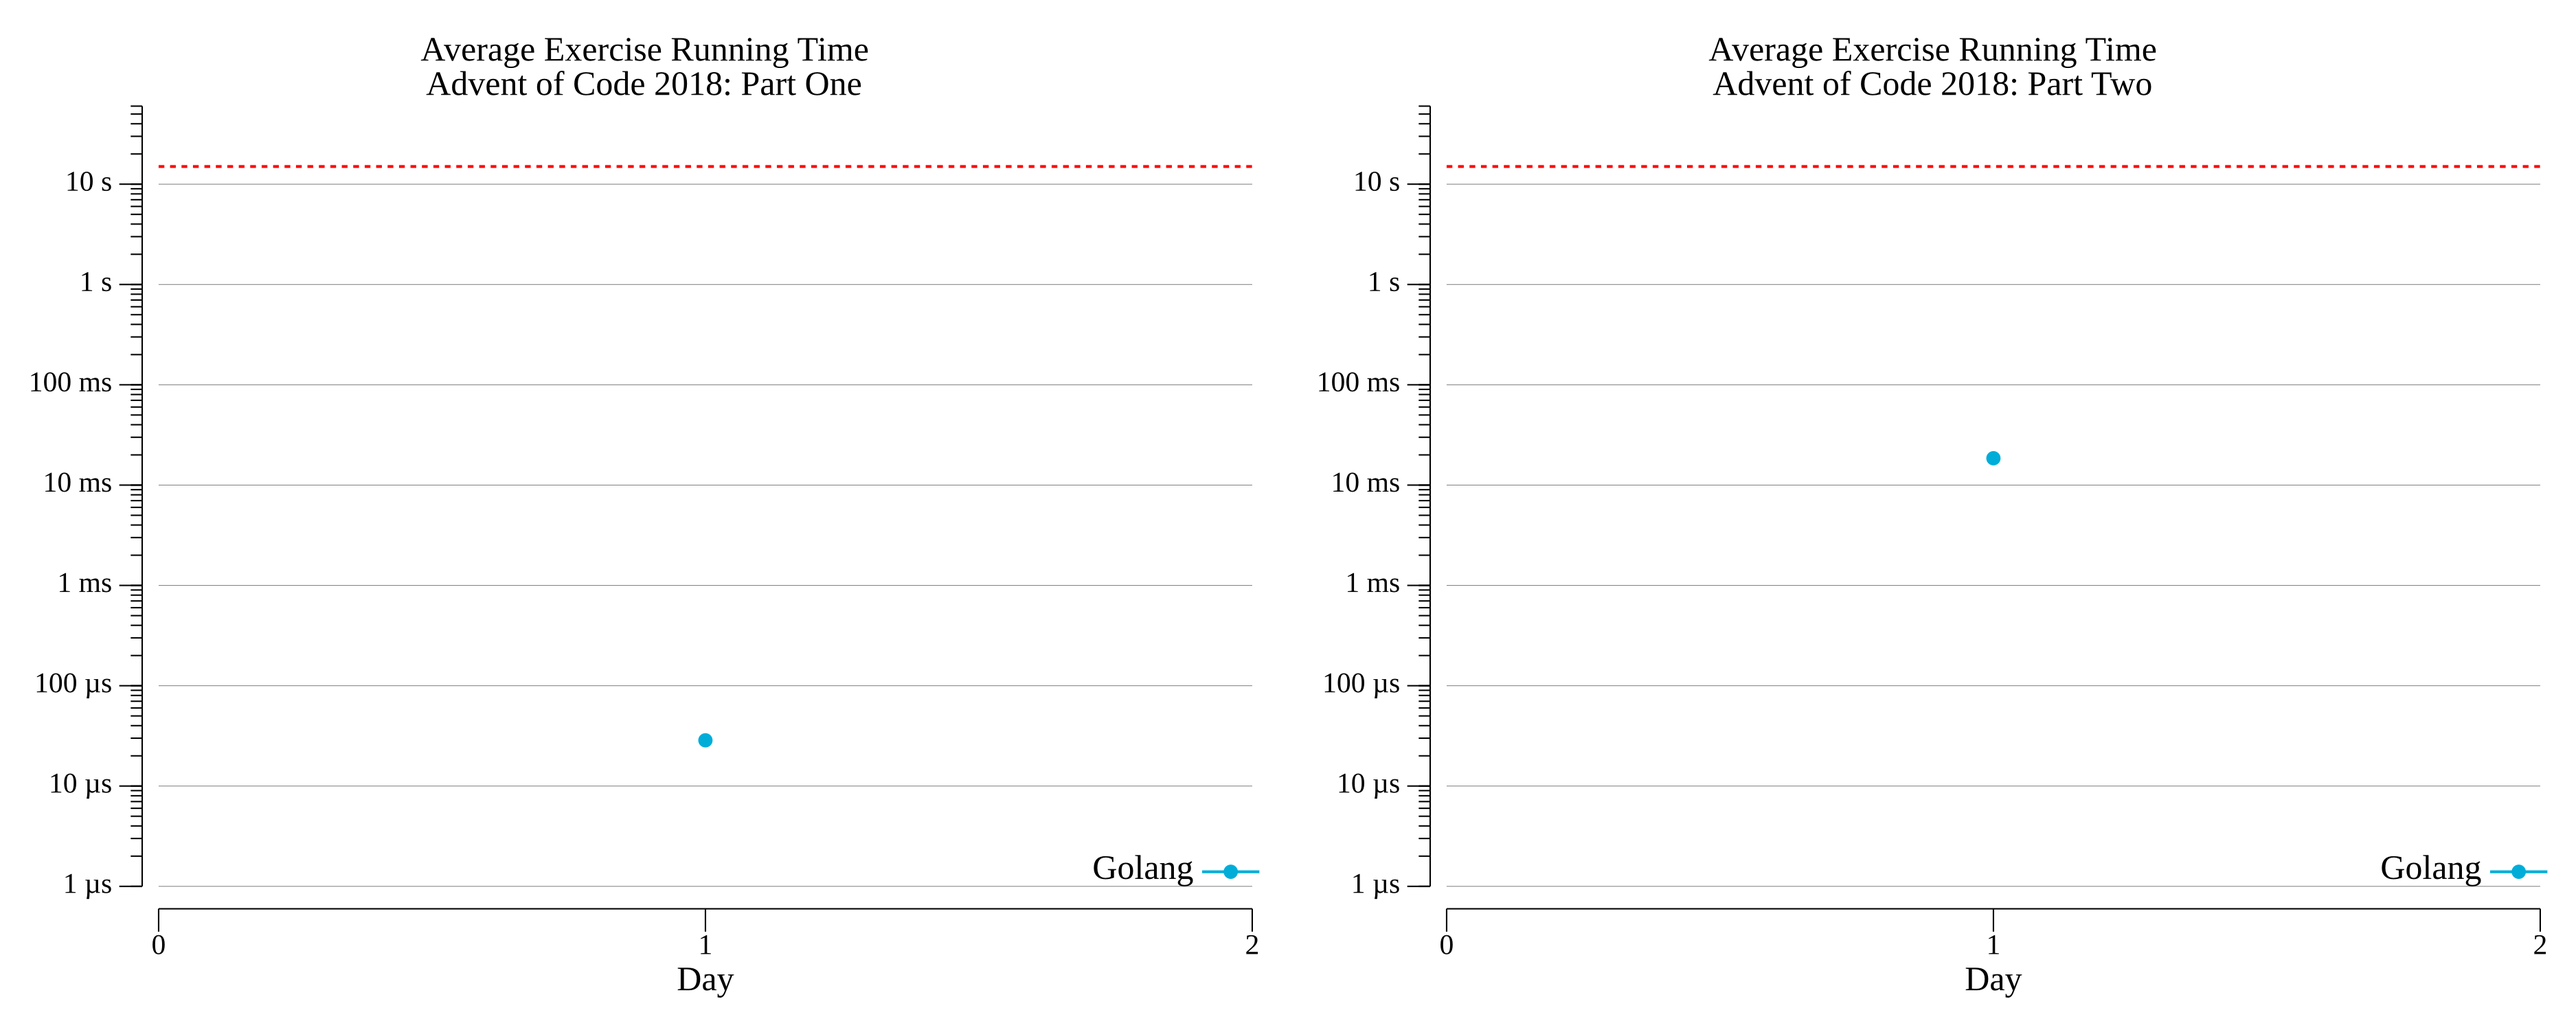
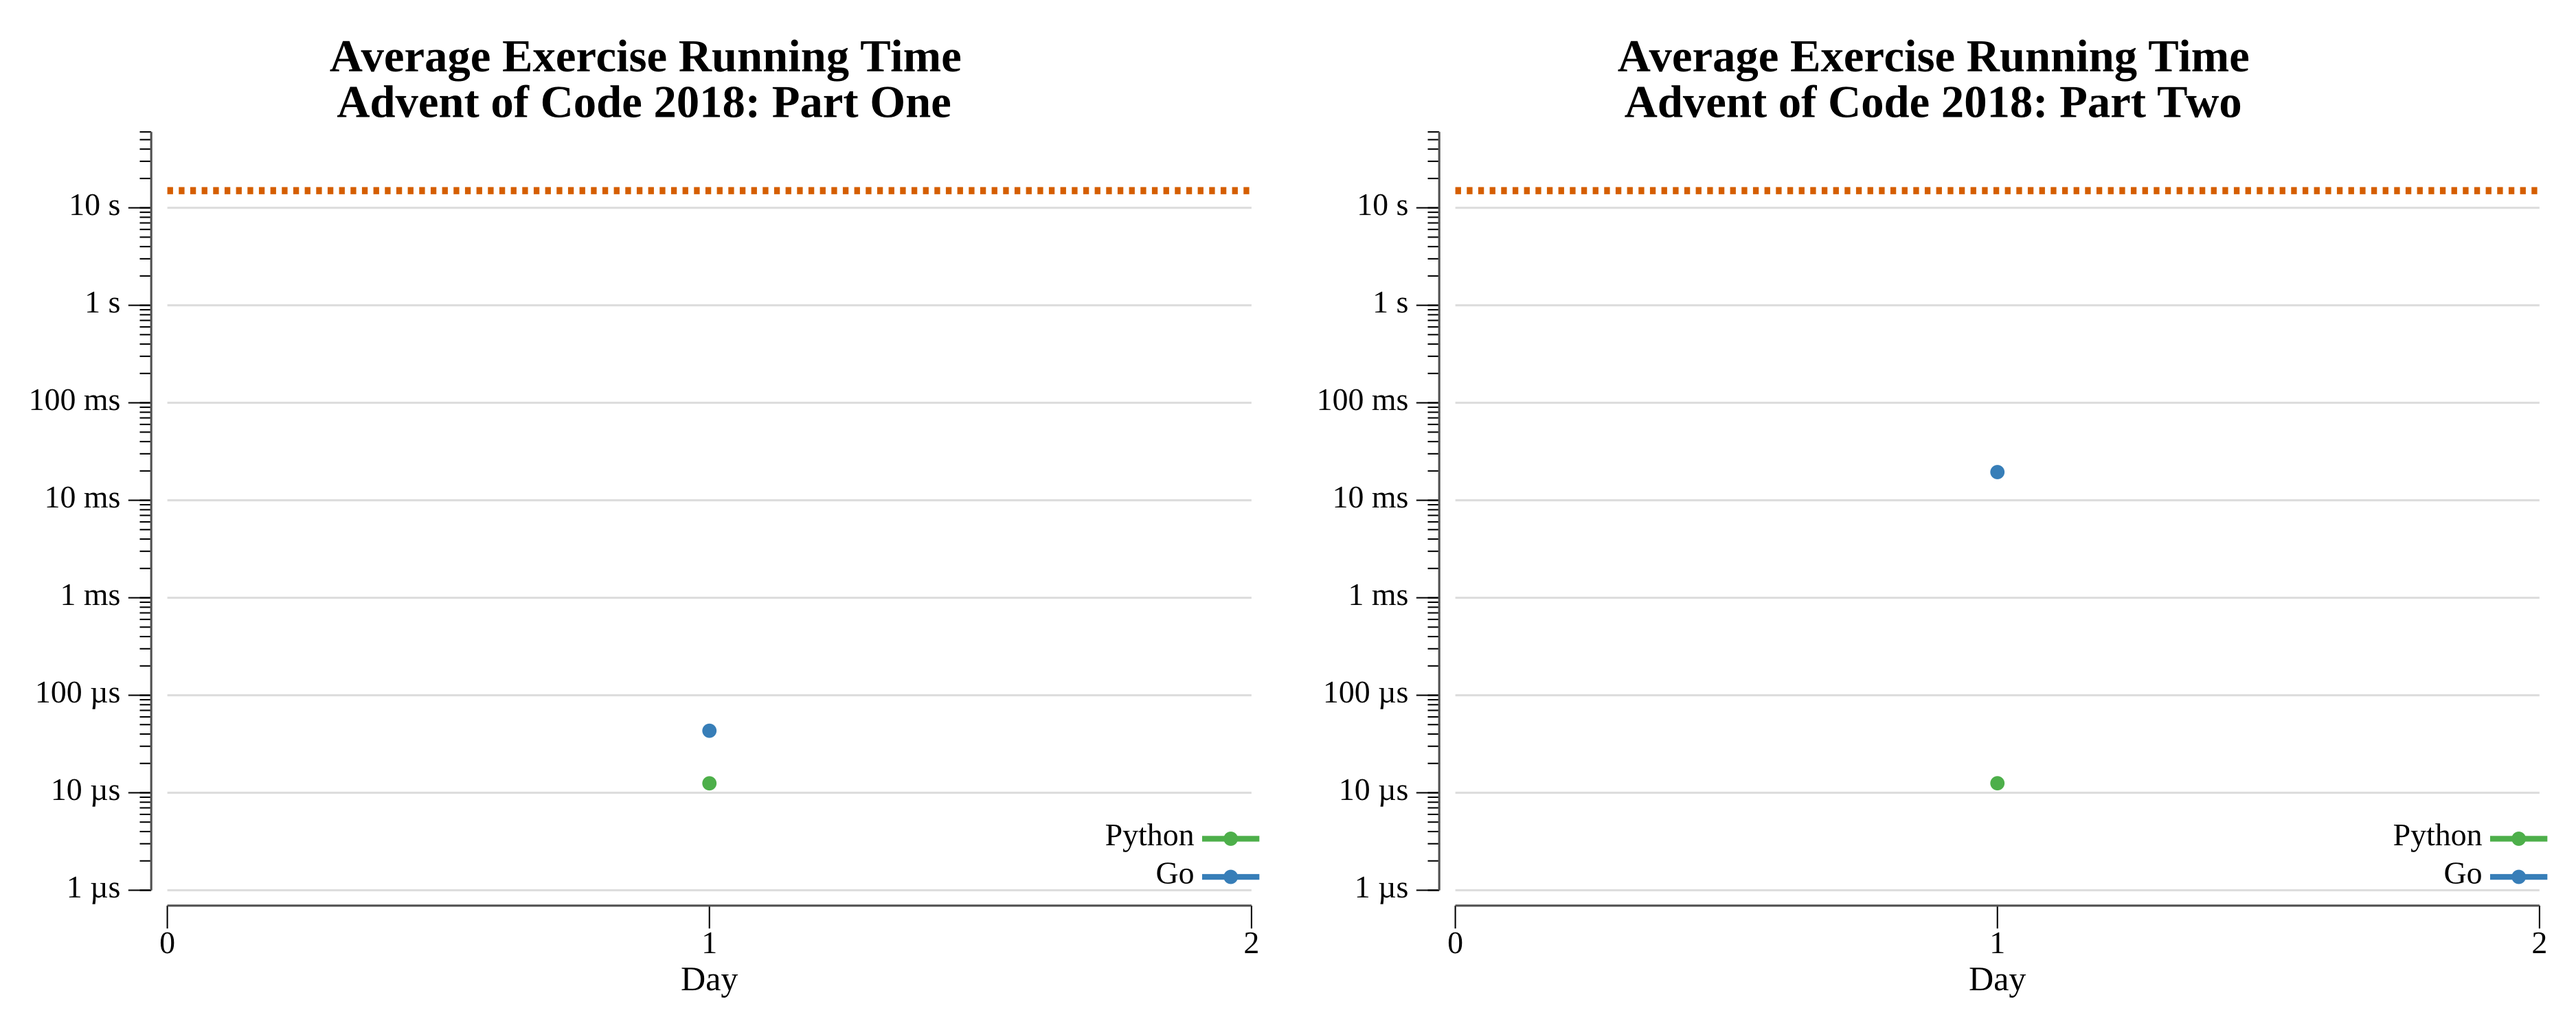
fix 2018 day 1

diff --git a/exercises/2018/01-chronalCalibration/go/vis.go b/exercises/2018/01-chronalCalibration/go/vis.go
@@ -1,0 +1,169 @@
+package exercises
+
+import (
+	"fmt"
+	"os"
+	"path/filepath"
+	"strings"
+)
+
+// Vis draws the space of visited frequencies as a coverage histogram along a
+// number line. Starting from 0, the device walks the signed changes over and
+// over; Part One is the frequency after one pass, and Part Two is the first
+// frequency reached twice. Because each pass drifts the frequency by a fixed
+// amount (+416) while the intra-pass path swings across a wide band, the walk
+// gradually fills a range of frequencies — and the puzzle ends the moment the
+// path lands on a frequency it already occupied. The histogram shows how densely
+// each frequency band was visited (why a collision is inevitable), and the one
+// value hit twice is marked with a tall pointer and its two step labels. Roles
+// are carried by marker shape, brightness, and labels — not hue alone — so the
+// chart reads in grayscale.
+func (c Exercise) Vis(instr, outdir string) error {
+	changes, err := parse(instr)
+	if err != nil {
+		return err
+	}
+	if len(changes) == 0 {
+		return fmt.Errorf("no changes to visualize")
+	}
+
+	// Replay until the first repeated frequency, recording the step of first
+	// arrival at each frequency and counting visits per frequency.
+	firstStep := map[int]int{0: 0}
+	visits := map[int]int{0: 1}
+	sum, step := 0, 0
+	repeatFreq, repeatStep, priorStep := 0, -1, -1
+	pass1 := 0
+	for _, n := range changes {
+		pass1 += n
+	}
+	part1 := pass1
+
+	minF, maxF := 0, 0
+outer:
+	for {
+		for _, n := range changes {
+			sum += n
+			step++
+			if sum < minF {
+				minF = sum
+			}
+			if sum > maxF {
+				maxF = sum
+			}
+			if s, ok := firstStep[sum]; ok {
+				repeatFreq, repeatStep, priorStep = sum, step, s
+				visits[sum]++
+				break outer
+			}
+			firstStep[sum] = step
+			visits[sum] = 1
+		}
+	}
+
+	const (
+		W    = 980
+		H    = 340
+		padL = 60
+		padR = 30
+		padT = 78
+		padB = 70
+		bins = 180
+	)
+	pw := W - padL - padR
+	ph := H - padT - padB
+
+	// Bucket visited frequencies into bins across [minF, maxF]; each bin's
+	// height is the number of distinct visited frequencies falling in it.
+	span := maxF - minF
+	if span == 0 {
+		span = 1
+	}
+	binOf := func(f int) int {
+		b := (f - minF) * bins / span
+		if b >= bins {
+			b = bins - 1
+		}
+		if b < 0 {
+			b = 0
+		}
+		return b
+	}
+	counts := make([]int, bins)
+	for f := range firstStep {
+		counts[binOf(f)]++
+	}
+	maxCount := 1
+	for _, ct := range counts {
+		if ct > maxCount {
+			maxCount = ct
+		}
+	}
+	scaleTop := maxCount * 12 / 10 // headroom
+
+	fg := "#e8ecf4"
+	dim := "#c8d0dc"
+	grid := "#2a303a"
+	barCol := "#56B4E9"    // sky blue: coverage
+	repeatCol := "#D55E00" // vermilion: the twice-hit frequency (Part Two)
+	p1Col := "#F0E442"     // yellow: Part One
+
+	xOf := func(f int) float64 { return float64(padL) + float64(f-minF)/float64(span)*float64(pw) }
+	yOf := func(ct int) float64 { return float64(padT) + (1-float64(ct)/float64(scaleTop))*float64(ph) }
+	baseY := padT + ph
+
+	var sb strings.Builder
+	fmt.Fprintf(&sb, `<svg xmlns="http://www.w3.org/2000/svg" width="%d" height="%d" viewBox="0 0 %d %d" font-family="monospace">`, W, H, W, H)
+	fmt.Fprintf(&sb, `<rect width="%d" height="%d" fill="#111418"/>`, W, H)
+	fmt.Fprintf(&sb, `<text x="%d" y="30" fill="%s" font-size="16">Chronal Calibration: visited frequencies (first repeat %d)</text>`, padL, fg, repeatFreq)
+	fmt.Fprintf(&sb, `<text x="%d" y="48" fill="%s" font-size="11">%d distinct frequencies visited before the walk lands on one twice</text>`, padL, dim, len(firstStep))
+
+	// baseline (number line)
+	fmt.Fprintf(&sb, `<line x1="%d" y1="%d" x2="%d" y2="%d" stroke="%s" stroke-width="1.5"/>`, padL, baseY, padL+pw, baseY, grid)
+
+	// coverage bars
+	bw := float64(pw) / float64(bins)
+	for i, ct := range counts {
+		if ct == 0 {
+			continue
+		}
+		x := float64(padL) + float64(i)*bw
+		y := yOf(ct)
+		fmt.Fprintf(&sb, `<rect x="%.2f" y="%.1f" width="%.2f" height="%.1f" fill="%s"/>`, x, y, bw*0.9, float64(baseY)-y, barCol)
+	}
+
+	// axis ticks: min, 0, part1, max
+	tick := func(f int, label, col string) {
+		x := xOf(f)
+		fmt.Fprintf(&sb, `<line x1="%.1f" y1="%d" x2="%.1f" y2="%d" stroke="%s" stroke-width="1"/>`, x, baseY, x, baseY+5, col)
+		fmt.Fprintf(&sb, `<text x="%.1f" y="%d" fill="%s" font-size="10" text-anchor="middle">%s</text>`, x, baseY+18, col, label)
+	}
+	tick(minF, fmt.Sprintf("%d", minF), fg)
+	tick(maxF, fmt.Sprintf("%d", maxF), fg)
+	if 0 > minF && 0 < maxF {
+		tick(0, "0", dim)
+	}
+
+	// Part One marker (end of first pass): downward triangle above the line
+	p1x := xOf(part1)
+	fmt.Fprintf(&sb, `<path d="M%.1f %d l6 -10 l-12 0 z" fill="%s"/>`, p1x, baseY-2, p1Col)
+	fmt.Fprintf(&sb, `<text x="%.1f" y="%d" fill="%s" font-size="10" text-anchor="middle">P1 %d</text>`, p1x, baseY-16, p1Col, part1)
+
+	// The twice-hit frequency: a tall vermilion pointer from the top down to the
+	// number line, with a diamond head — the single value the whole puzzle turns on.
+	rx := xOf(repeatFreq)
+	fmt.Fprintf(&sb, `<line x1="%.1f" y1="%d" x2="%.1f" y2="%d" stroke="%s" stroke-width="2" stroke-dasharray="3 3"/>`, rx, padT, rx, baseY, repeatCol)
+	fmt.Fprintf(&sb, `<path d="M%.1f %d l7 10 l-7 10 l-7 -10 z" fill="%s"/>`, rx, padT+2, repeatCol)
+	fmt.Fprintf(&sb, `<text x="%.1f" y="%d" fill="%s" font-size="12" font-weight="bold" text-anchor="middle">%d</text>`, rx, padT-4, repeatCol, repeatFreq)
+	fmt.Fprintf(&sb, `<text x="%.1f" y="%d" fill="%s" font-size="10" text-anchor="middle">hit twice: step %d, then step %d</text>`, rx, baseY+36, repeatCol, priorStep, repeatStep)
+
+	// legend
+	ly := H - 12
+	lx := padL
+	fmt.Fprintf(&sb, `<rect x="%d" y="%d" width="14" height="9" fill="%s"/><text x="%d" y="%d" fill="%s" font-size="10">visited frequencies (coverage)</text>`, lx, ly-8, barCol, lx+20, ly, fg)
+	fmt.Fprintf(&sb, `<path d="M%d %d l5 -9 l-10 0 z" fill="%s"/><text x="%d" y="%d" fill="%s" font-size="10">Part 1 (%d)</text>`, lx+280, ly, p1Col, lx+292, ly, fg, part1)
+	fmt.Fprintf(&sb, `<path d="M%d %d l5 6 l-5 6 l-5 -6 z" fill="%s"/><text x="%d" y="%d" fill="%s" font-size="10">Part 2 repeat (%d)</text>`, lx+430, ly-6, repeatCol, lx+442, ly, fg, repeatFreq)
+
+	sb.WriteString(`</svg>`)
+	return os.WriteFile(filepath.Join(outdir, "chronal-calibration.svg"), []byte(sb.String()), 0o600)
+}

diff --git a/exercises/2018/01-chronalCalibration/go/exercise.go b/exercises/2018/01-chronalCalibration/go/exercise.go
@@ -13,17 +13,35 @@ type Exercise struct {
 	common.BaseExercise
 }
 
-// One returns the answer to the first part of the exercise.
-// answer:
-func (c Exercise) One(instr string) (any, error) {
-	sum := 0
+// parse turns the input into a slice of signed frequency changes, tolerating
+// blank lines and any surrounding whitespace (the elf may deliver input with or
+// without a trailing newline).
+func parse(instr string) ([]int, error) {
+	fields := strings.Fields(instr)
+	changes := make([]int, 0, len(fields))
 
-	for _, f := range strings.Split(instr, "\n") {
+	for _, f := range fields {
 		n, err := strconv.Atoi(f)
 		if err != nil {
 			return nil, fmt.Errorf("parsing input: %w", err)
 		}
 
+		changes = append(changes, n)
+	}
+
+	return changes, nil
+}
+
+// One returns the answer to the first part of the exercise.
+// answer: 416
+func (c Exercise) One(instr string) (any, error) {
+	changes, err := parse(instr)
+	if err != nil {
+		return nil, err
+	}
+
+	sum := 0
+	for _, n := range changes {
 		sum += n
 	}
 
@@ -31,18 +49,18 @@ func (c Exercise) One(instr string) (any, error) {
 }
 
 // Two returns the answer to the second part of the exercise.
-// answer:
+// answer: 56752
 func (c Exercise) Two(instr string) (any, error) {
+	changes, err := parse(instr)
+	if err != nil {
+		return nil, err
+	}
+
 	sum := 0
 	seen := map[int]bool{0: true}
 
 	for {
-		for _, f := range strings.Split(instr, "\n") {
-			n, err := strconv.Atoi(f)
-			if err != nil {
-				return nil, fmt.Errorf("parsing input: %w", err)
-			}
-
+		for _, n := range changes {
 			sum += n
 
 			if seen[sum] {

diff --git a/exercises/2018/01-chronalCalibration/README.md b/exercises/2018/01-chronalCalibration/README.md
@@ -2,23 +2,26 @@
 
 <!-- [Day 1: Chronal Calibration](01-chronalCalibration) -->
 
+## Notes
+
+The device starts at frequency 0 and applies a list of signed changes.
+
+Part One is just the sum of every change. Part Two cycles through the list
+repeatedly, tracking every intermediate frequency in a set, and returns the first
+frequency reached twice. Because the list may need many passes before a repeat
+appears, the seen-set is the key: it turns an otherwise unbounded search into an
+O(reached) lookup, and the loop terminates the moment a duplicate is hit.
+
 ## Go
 
 ```text
-2018-1 Chronal Calibration (Golang)
+────────────────────────────────────────
+─   2018 Day 1: Chronal Calibration    ─
+────────────────────────────────────────
 
-Running...
-
-Test 1.0: pass in 1.6 µs
-Test 1.1: pass in 2.7 µs
-Test 1.2: pass in 2.3 µs
-Test 1.3: pass in 2.1 µs
-Test 2.0: pass in 2.5 µs
-Test 2.1: pass in 3 µs
-Test 2.2: pass in 9.3 µs
-Test 2.3: pass in 4.2 µs
-Part 1: 416 in 21.7 µs
-Part 2: 56752 in 27.0396 ms
+Solving (Go)…
+1.0:  PASS             0.074ms
+2.0:  PASS            22.611ms
 ```
 
 ## Python
@@ -27,6 +30,18 @@ Part 2: 56752 in 27.0396 ms
     < section intentionally left blank >
 ```
 
-## 2018 Run Times
+## Visualization
 
-![2018 exercise run-time graphs](../run-times.png)
+The space of frequencies the walk visits, as a coverage histogram along a number
+line. Each bar counts distinct frequencies visited in that band, so the near-solid
+region shows where the walk spends most of its time and the sparse right tail is
+the range only reached in later passes. The one value hit twice — the Part Two
+answer, 56752 — is marked with a tall pointer and its two step numbers (509, then
+138469, about 137 passes later). Part One (416) sits near the left. Roles are
+distinguished by marker shape and position, so the chart reads in grayscale.
+
+![Visited-frequency coverage](chronal-calibration.svg)
+
+## Run Times
+
+![Day 1 run-time graphs](run-times.png)
